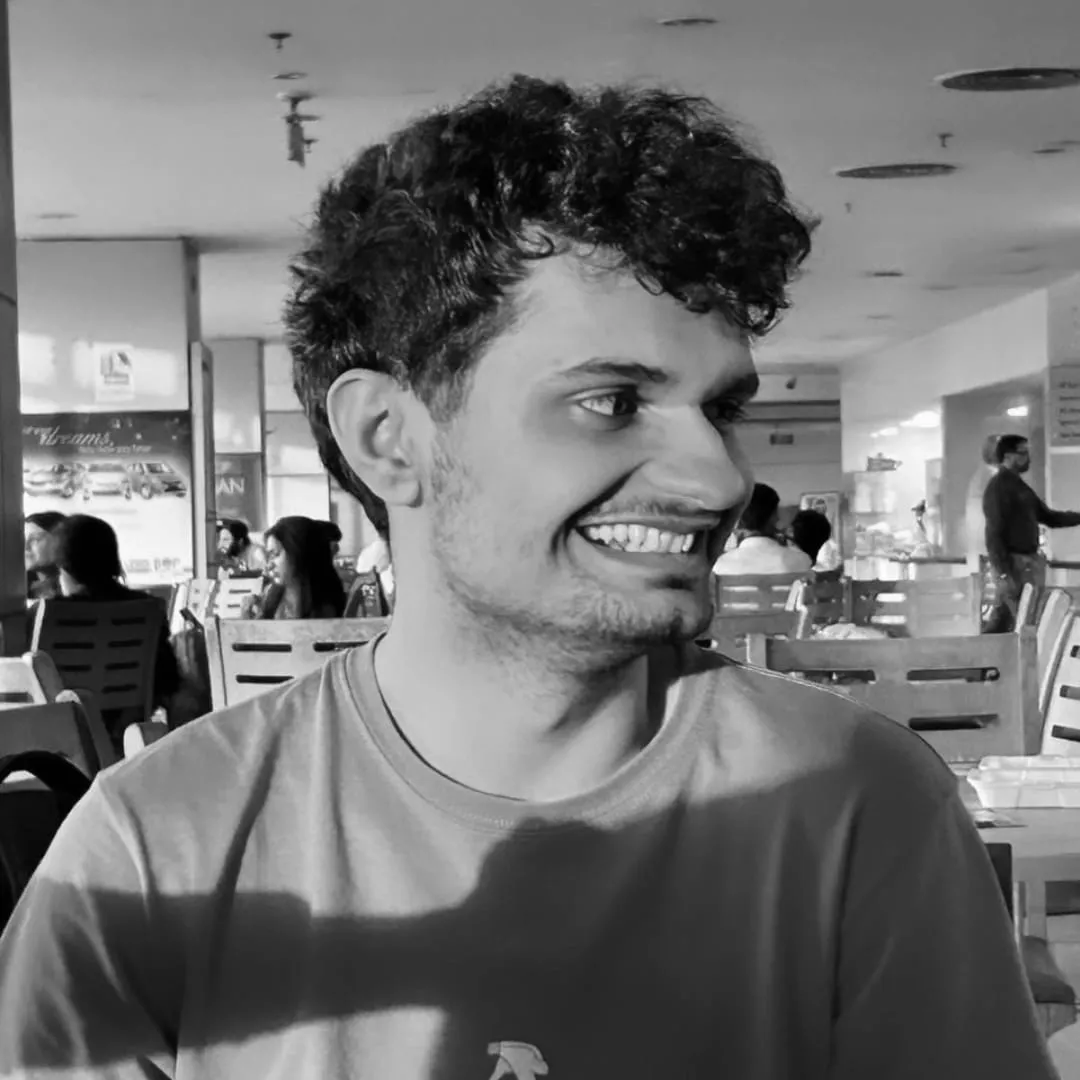
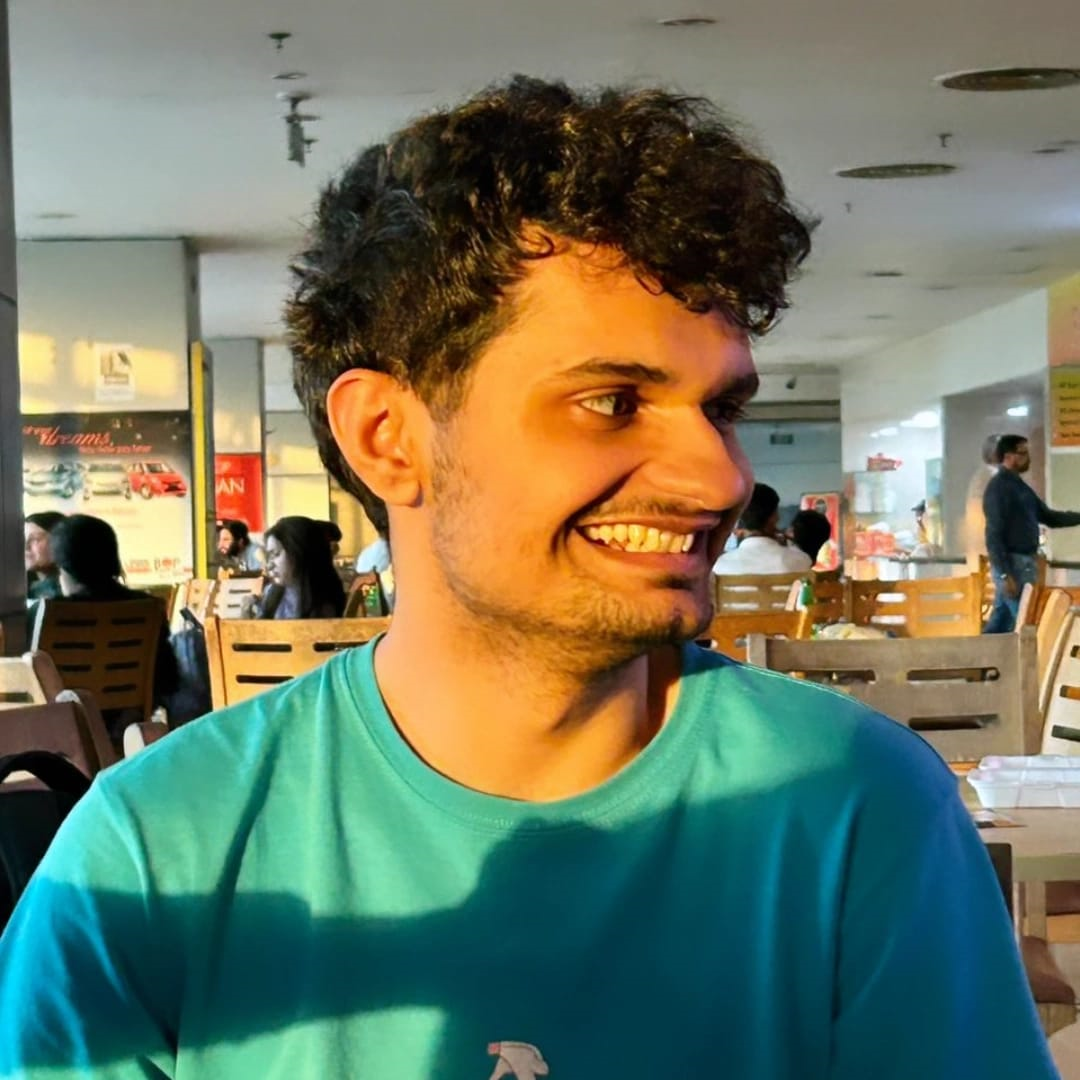
Projects, Contacts, Footer & Minor Issues Resolved
Added a projects section, contact section and footer section. Adjusted the alignment on the experience section. Added images for the products and adjusted their height. The links on the buttons below the projects aren't added, dont lead anywhere.  And yah the desktop version is complete.

diff --git a/index.html b/index.html
@@ -17,7 +17,8 @@
             <li><a href="#experience">Experience</a></li>
             <li><a href="#projects">Projects</a></li>
             <li><a href="#contact">Contact</a></li>
-        </ul></div>
+        </ul>
+        </div>
     </nav>
     <nav id="hamburger-nav">
         <div class = "logo">Muhammad Issa Umer</div>
@@ -37,7 +38,7 @@
     </nav>
     <section id="profile">
         <div class = "section__pic-container">
-            <img src="./assets/profile-circle-gs.png" alt="profile"/> 
+            <img src="./assets/profile-circle.png" alt="profile"/> 
         </div>
         <div class="section__text">
             <p class="section__text__p1">Hello, I'm</p>
@@ -171,6 +172,84 @@
         </div>
         <img src="./assets/arrow.png" alt="Arrow icon" class="icon arrow" onclick="location.href='./#projects'"/>
     </section>
+    <section id="projects">
+        <p class="section__text__p1">Browse My Recent</p>
+        <h1 class="title">Projects</h1>
+        <div class="experience-details-container">
+            <div class="about-containers">
+                <div class="details-container color-container">
+                <div class="article-container">
+                    <img src="./assets/project-1.png" alt="Project 1" class="project-img"/>
+                </div>
+                <h2 class="experience-sub-title project-title">Vertigo Clothing</h2>
+                <div class="btn-container">
+                    <button class="btn btn-color-2 project-btn" onclick="location.href='/*No Link*/'">
+                        Linkedin
+                    </button>
+                    <button class="btn btn-color-2 project-btn" onclick="location.href='/*No Link*/'">
+                        Instagram
+                    </button>
+                </div>
+                </div>
+                <div class="details-container color-container">
+                <div class="article-container">
+                    <img src="./assets/project-2.png" alt="Project 2" class="project-img"/>
+                </div>
+                <h2 class="experience-sub-title project-title">EdConnect</h2>
+                <div class="btn-container">
+                    <button class="btn btn-color-2 project-btn" onclick="location.href='/*No Link*/'">
+                        Play Store
+                    </button>
+                    <button class="btn btn-color-2 project-btn" onclick="location.href='/*No Link*/'">
+                        App Store
+                    </button>
+                </div>
+                </div>
+                <div class="details-container color-container">
+                <div class="article-container">
+                    <img src="./assets/project-3.png" alt="Project 3" class="project-img"/>
+                </div>
+                <h2 class="experience-sub-title project-title">Block Builder</h2>
+                <div class="btn-container">
+                    <button class="btn btn-color-2 project-btn" onclick="location.href='/*No Link*/'">
+                        Website
+                    </button>
+                    <button class="btn btn-color-2 project-btn" onclick="location.href='/*No Link*/'">
+                        Github
+                    </button>
+                </div>
+                </div>            
+            </div>
+        </div>
+        <img src="./assets/arrow.png" alt="Arrow icon" class="icon arrow" onclick="location.href='./#projects'"/>
+    </section>
+    <section id="contact">
+        <p class="section__text__p1"> Get In Touch</p>
+        <h1 class="title"> Contact Me</h1>
+        <div class="contact-info-upper-container">
+            <div class="contact-info-container">
+                <img src="./assets/email.png" alt="email icon" class="icon contact-icon email-icon"/>
+                <p><a href="mailto:issaumer125@gmail.com">issaumer125@gmail.com</a></p>
+            </div>
+            <div class="contact-info-container">
+                <img src="./assets/linkedIn.png" alt="linkedin icon" class="icon contact-icon"/>
+                <p><a href="https://www.linkedin.com/in/issa-umer-6772a522a/">Linkedin</a></p>
+            </div>
+        </div>
+    </section>
+    <footer>
+        <nav>
+            <div class="nav-links-container">
+                <ul class = "nav-links">
+                    <li><a href="#about">About</a></li>
+                    <li><a href="#experience">Experience</a></li>
+                    <li><a href="#projects">Projects</a></li>
+                    <li><a href="#contact">Contact</a></li>
+                </ul>
+            </div>
+        </nav>
+        <p>Copyright &#169; 2024 Muhammad Issa Umer, All Rights Reserved</p>
+    </footer>
     <script src='script.js'></script>
 </body>
 </html>

diff --git a/style.css b/style.css
@@ -340,10 +340,86 @@ section {
 article {
     display: flex;
     width: 10rem;
-    justify-content: space-around;
-    gap: 0.5rem;
+    gap: 1rem;
 }
 
 article .icon {
     cursor: default;
+}
+
+/*Projects Section */
+
+#projects {
+    position: relative;
+}
+
+.color-container {
+    border-color: rgb(163, 163, 163);
+    background: rgb(250, 250, 250);
+}
+
+.project-img {
+    border-radius: 2rem;
+    height: 340px;
+}
+
+.project-title {
+    margin: 1rem;
+    color: black;
+}
+
+.project-btn {
+    color: black;
+    border-color: rgb(163, 163, 163);
+}
+
+/* Contact */
+
+#contact {
+    display: flex;
+    justify-content: center;
+    flex-direction: column;
+    height: 70vh;
+}
+
+.contact-info-upper-container {
+    display: flex;
+    justify-content: center;
+    border-radius: 2rem;
+    border: rgb(53, 53, 53) 0.1rem solid;
+    border-color: rgb(163, 163, 163);
+    background: rgb(250, 250, 250);
+    margin: 2rem auto;
+    padding: 0.5rem;
+}
+
+.contact-info-container {
+    display: flex;
+    align-items: center;
+    justify-content: center;
+    gap: 0.5rem;
+    margin: 1rem;
+}
+
+.contact-info-container p{
+    font-size: larger;
+}
+
+.contact-icon {
+    cursor: default;
+}
+
+.email-icon {
+    height: 2.5rem;
+}
+
+/* Footer Section */
+
+footer {
+    height: 26vh;
+    margin: 0 1rem;
+}
+
+footer p {
+    text-align: center;
 }
